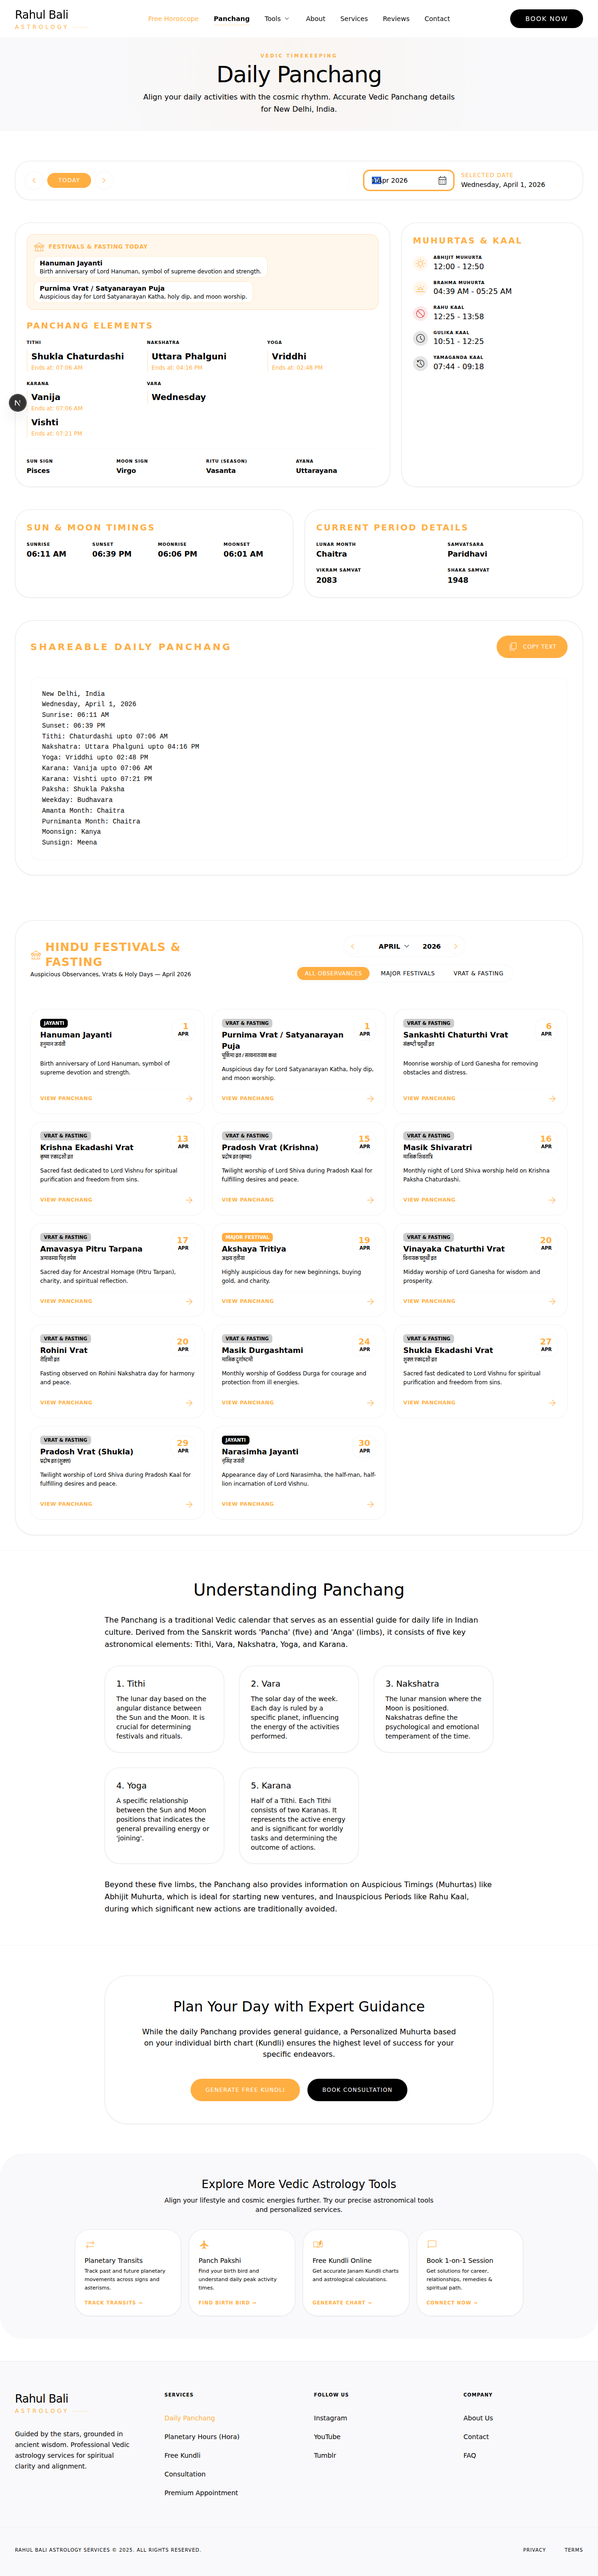
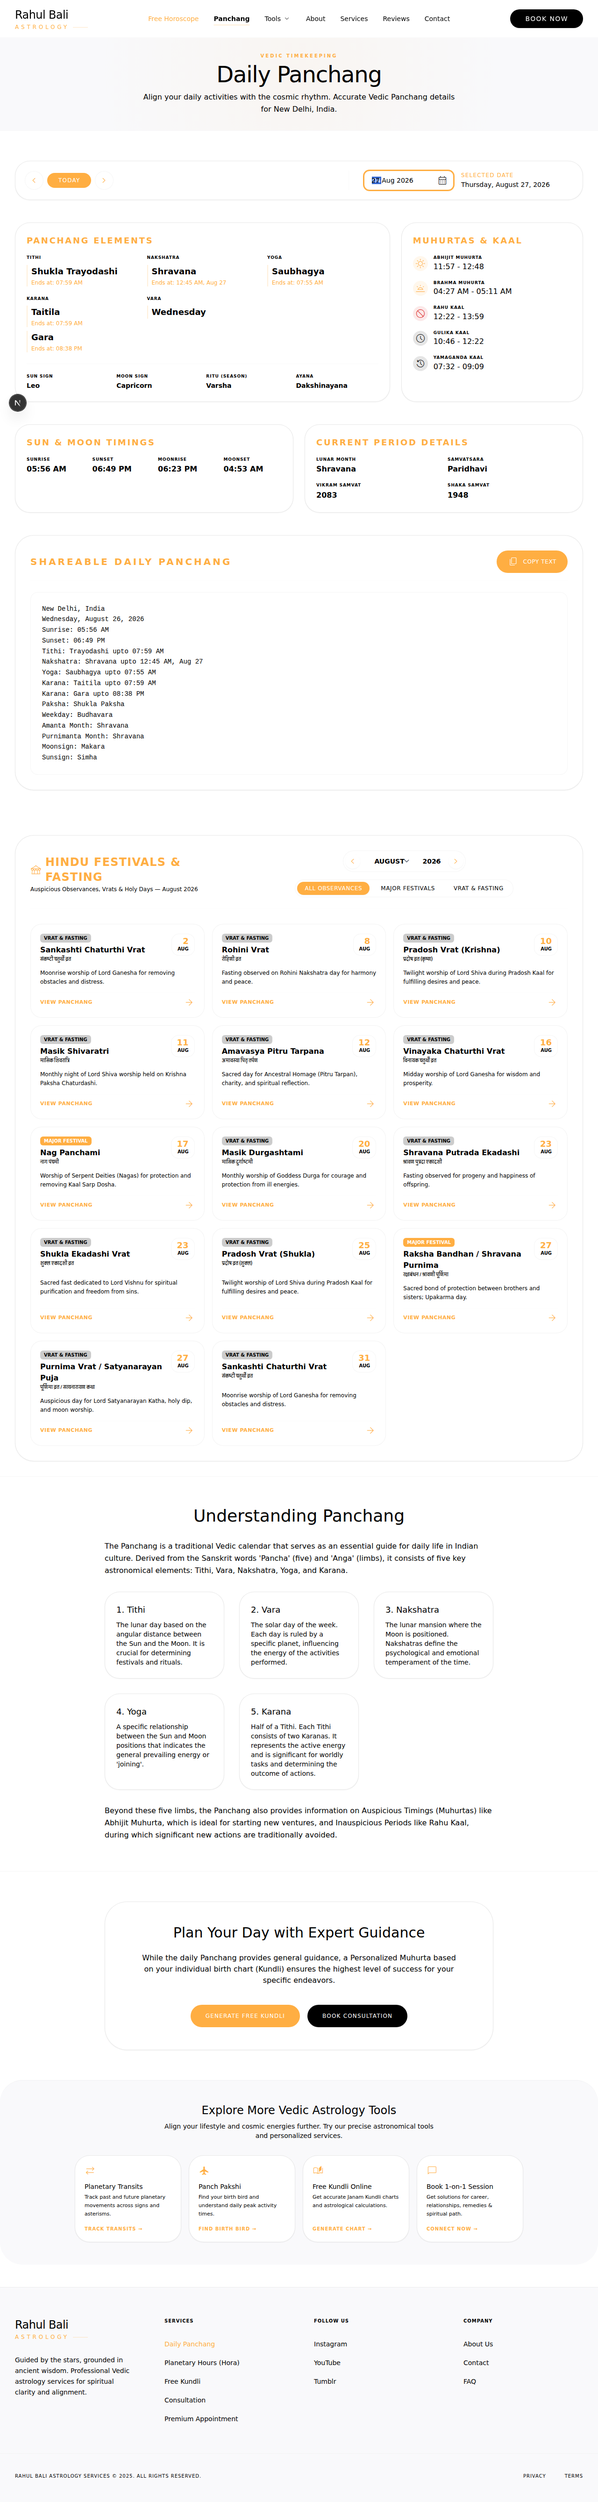
chore: remove screenshot artifacts and neutralize transit colors
Removed leftover test screenshots.
De-cluttered the UI styling for Retrograde and Combustion active states on Planetary Transits.
Removed '💡' and '🔥' emojis from the Retrograde and Combustion descriptive cards.

diff --git a/src/app/transits/TransitsClientPage.tsx b/src/app/transits/TransitsClientPage.tsx
@@ -554,7 +554,7 @@ const TransitsClientPage = () => {
                             {retroInsight && (
                               <div className="pt-1.5 border-t border-outline/20 text-[11px] text-on-surface space-y-0.5">
                                 <p className="leading-snug">{retroInsight.summary}</p>
-                                <p className="text-[10px] text-on-surface/80 font-medium leading-snug">💡 {retroInsight.guidance}</p>
+                                <p className="text-[10px] text-on-surface/80 font-medium leading-snug">{retroInsight.guidance}</p>
                               </div>
                             )}
                           </div>
@@ -637,7 +637,7 @@ const TransitsClientPage = () => {
                             {combustInsight && (
                               <div className="pt-1.5 border-t border-outline/20 text-[11px] text-on-surface space-y-0.5">
                                 <p className="leading-snug">{combustInsight.summary}</p>
-                                <p className="text-[10px] text-on-surface/80 font-medium leading-snug">🔥 {combustInsight.guidance}</p>
+                                <p className="text-[10px] text-on-surface/80 font-medium leading-snug">{combustInsight.guidance}</p>
                               </div>
                             )}
                           </div>
